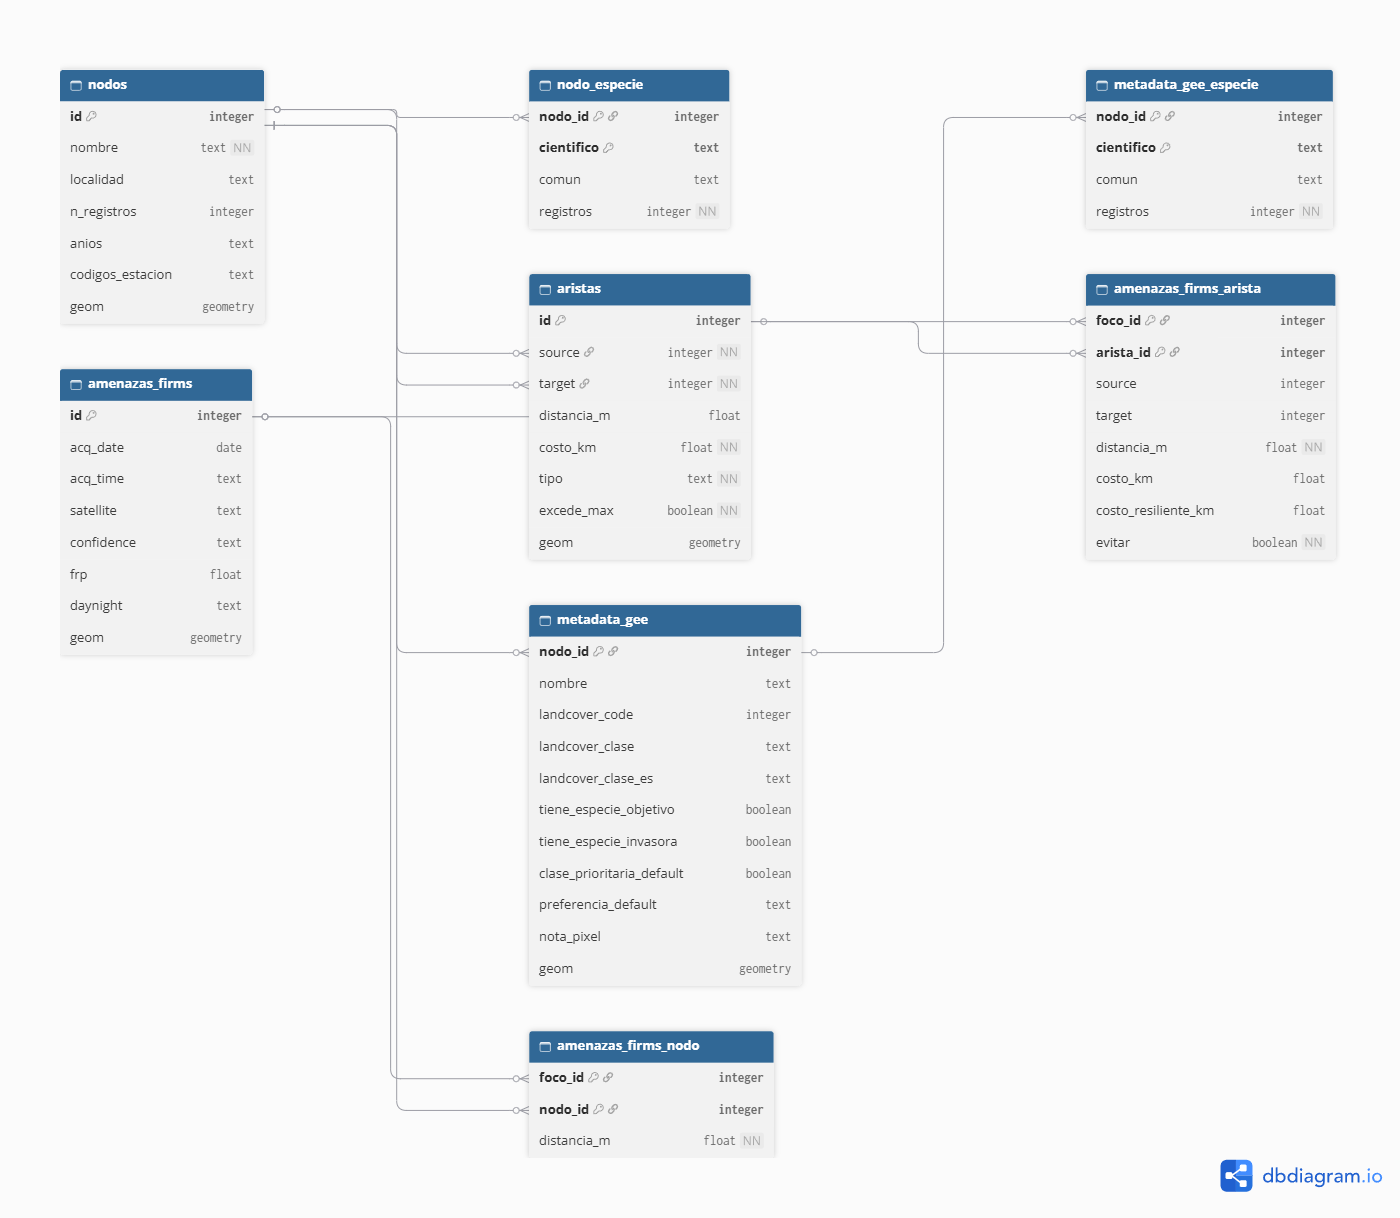
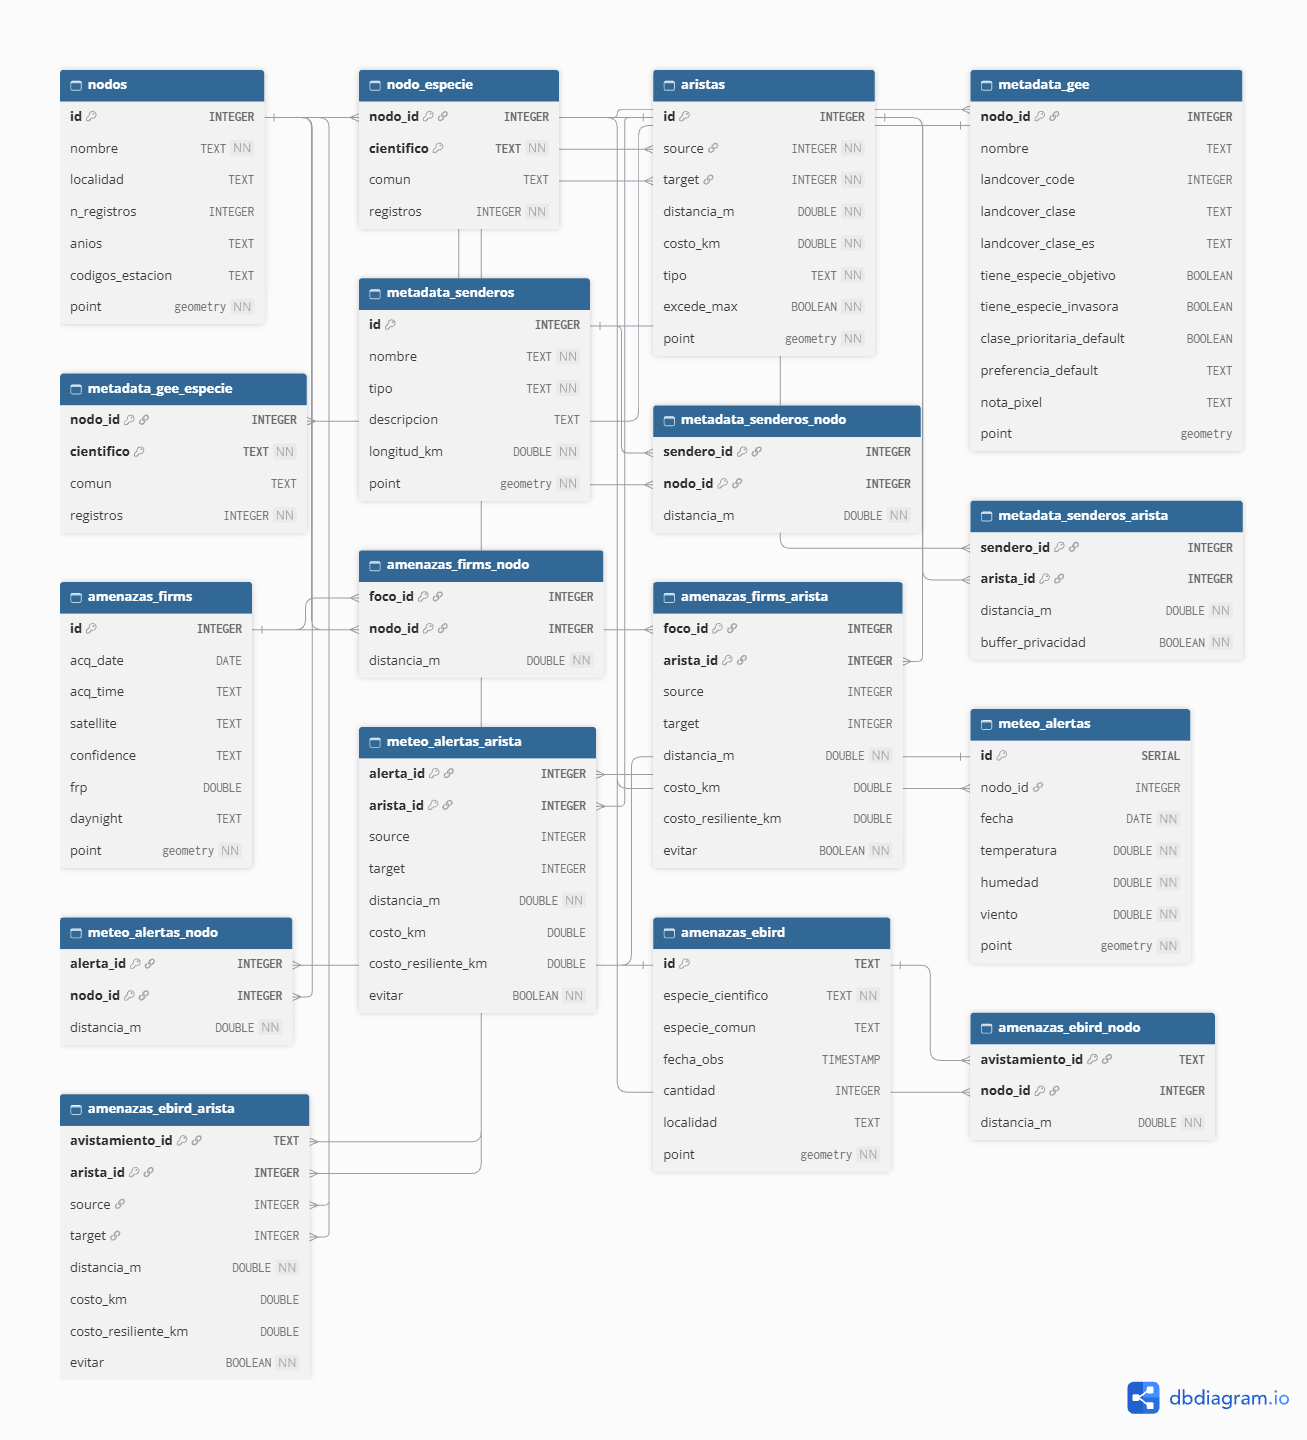
Enhance meteorological data loading process

diff --git a/Amenazas/cargar_meteo.py b/Amenazas/cargar_meteo.py
@@ -44,40 +44,67 @@ def main():
         sys.exit(f"No existe {JSON_PATH}. Corre extraer_meteo.py primero.")
     doc = json.loads(JSON_PATH.read_text(encoding="utf-8"))
     alertas = doc.get("alertas_meteorologicas", [])
-    costo = {
-            a["arista_id"]: a for a in doc.get("aristas_afectadas", [])
-        }
+    costos = {a["arista_id"]: a for a in doc.get("aristas_afectadas", [])}
+    fecha = (doc.get("meta") or {}).get("generado")
     with conectar() as conn:
         with conn.cursor() as cur:
             aplicar_schema(cur)
             cur.execute(
-                "TRUNCATE meteo_alertas_nodo, meteo_alertas_arista, meteo_alertas"
+                "TRUNCATE meteo_alertas_nodo, meteo_alertas_arista, meteo_alertas RESTART IDENTITY CASCADE"
             )
             for alerta in alertas:
+                nodo_id = alerta.get("nodo_id", alerta.get("nodo_origen_alerta"))
                 cur.execute(
                     """
                     INSERT INTO meteo_alertas (
-                        nodo_id, fecha, temperatura, humedad, viento
-                    ) VALUES (%s, %s, %s, %s, %s)
+                        nodo_id, fecha, temperatura, humedad, viento, geom
+                    ) VALUES (
+                        %s, COALESCE(%s::date, CURRENT_DATE), %s, %s, %s,
+                        ST_SetSRID(ST_MakePoint(%s, %s), 4326)
+                    )
+                    RETURNING id
                     """,
                     (
-                        alerta["nodo_id"],
-                        alerta["fecha"],
+                        nodo_id,
+                        alerta.get("fecha") or fecha,
                         alerta["temperatura"],
                         alerta["humedad"],
                         alerta["viento"],
+                        alerta["lon"],
+                        alerta["lat"],
                     ),
                 )
-            for arista_id, arista in costo.items():
+                alerta_id = cur.fetchone()[0]
                 cur.execute(
                     """
-                    INSERT INTO meteo_alertas_arista (
-                        arista_id, nodo_cercano_id
-                    ) VALUES (%s, %s)
+                    INSERT INTO meteo_alertas_nodo (alerta_id, nodo_id, distancia_m)
+                    VALUES (%s, %s, %s)
                     """,
-                    (arista_id, arista["nodo_cercano_id"]),
+                    (alerta_id, nodo_id, 0),
                 )
+                for arista in alerta.get("aristas_dentro_umbral", []):
+                    extra = costos.get(arista["id"], {})
+                    cur.execute(
+                        """
+                        INSERT INTO meteo_alertas_arista (
+                            alerta_id, arista_id, source, target, distancia_m,
+                            costo_km, costo_resiliente_km, evitar
+                        ) VALUES (%s, %s, %s, %s, %s, %s, %s, %s)
+                        """,
+                        (
+                            alerta_id,
+                            arista["id"],
+                            arista.get("source"),
+                            arista.get("target"),
+                            arista["distancia_m"],
+                            extra.get("costo_km"),
+                            extra.get("costo_resiliente_km"),
+                            True,
+                        ),
+                    )
         conn.commit()
     print(f"Cargados {len(alertas)} alertas en meteo_alertas.")
+
+
 if __name__ == "__main__":
     main()
